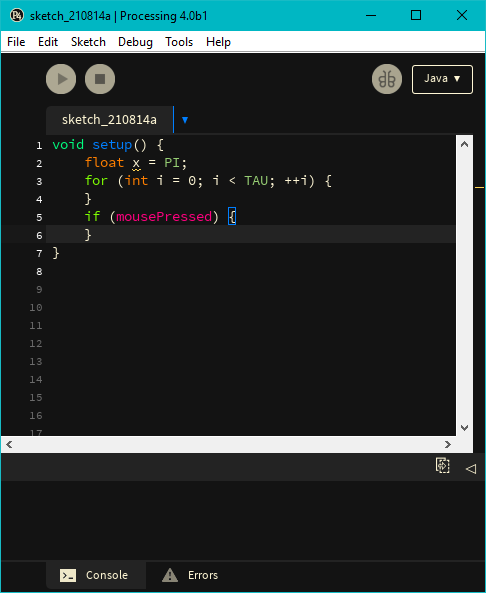
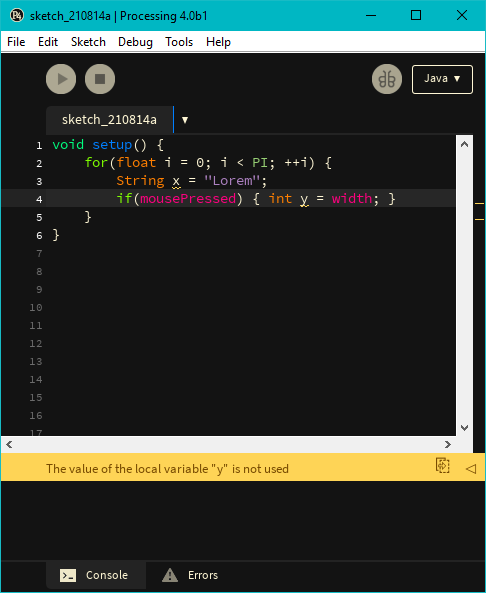
Removed Theme Comments
Removed comments from theme.txt. Made tab arrow less conspicuous. Brightened line highlight color. Improved information in readme. Added vector version of toolbar buttons. Updated screen shot.

diff --git a/README.md b/README.md
@@ -2,6 +2,12 @@
 
 ![Screen Capture](screenCap.png)
 
-Images and theme for a Processing 4 beta. Navigate to Processing's installation folder, locate the `lib` folder, replace items as needed. I do not specialize in making icons, logos or themes. I just needed a dark theme. Feel free to customize and improve.
+Images and theme for a Processing 4 beta. Navigate to Processing's installation folder, locate the `lib` folder, replace items as needed.
 
-Don't forget to go to into your preferences and into `defaults.txt` and disable the "welcome" screen.
+I do not specialize in making icons, logos or themes. If you don't like how the start, stop and debug buttons are colored rasterized, I tried to recreate vector versions: see the 'vectorButtons` folder. (Don't copy these into the Processing installation folder, they'll not do anything.) Feel free to customize and improve.
+
+You may wish to change the splash screen and icons as well. See Processing 4 alpha releases circa version 4. The more traditional serif font used by Processing is [Enriqueta](https://fonts.google.com/specimen/Enriqueta).
+
+Syntax highlighting tag explanations can be found in [processing/app/src/processing/app/syntax/Token.java](processing/app/src/processing/app/syntax/Token.java).
+
+To disable the "welcome screen," go to into your preferences and into `defaults.txt` and disable them.
